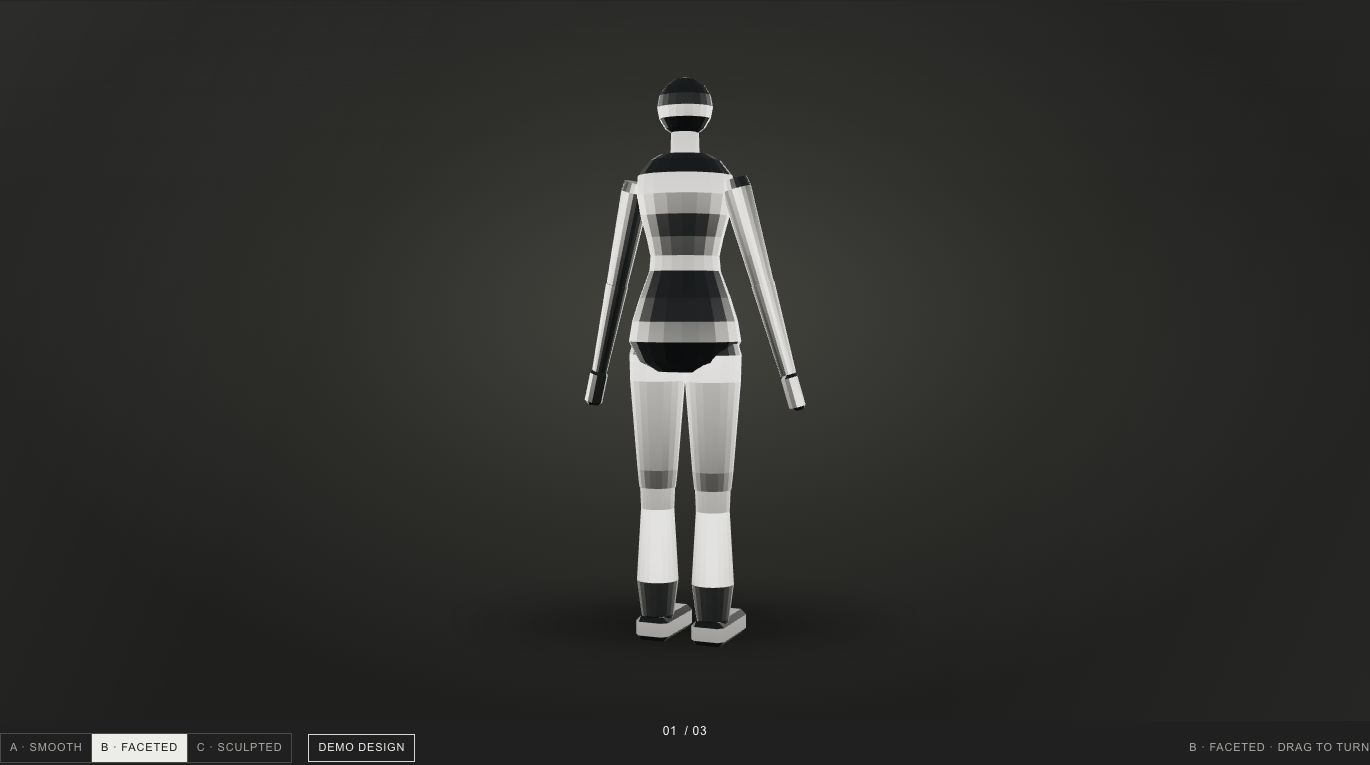
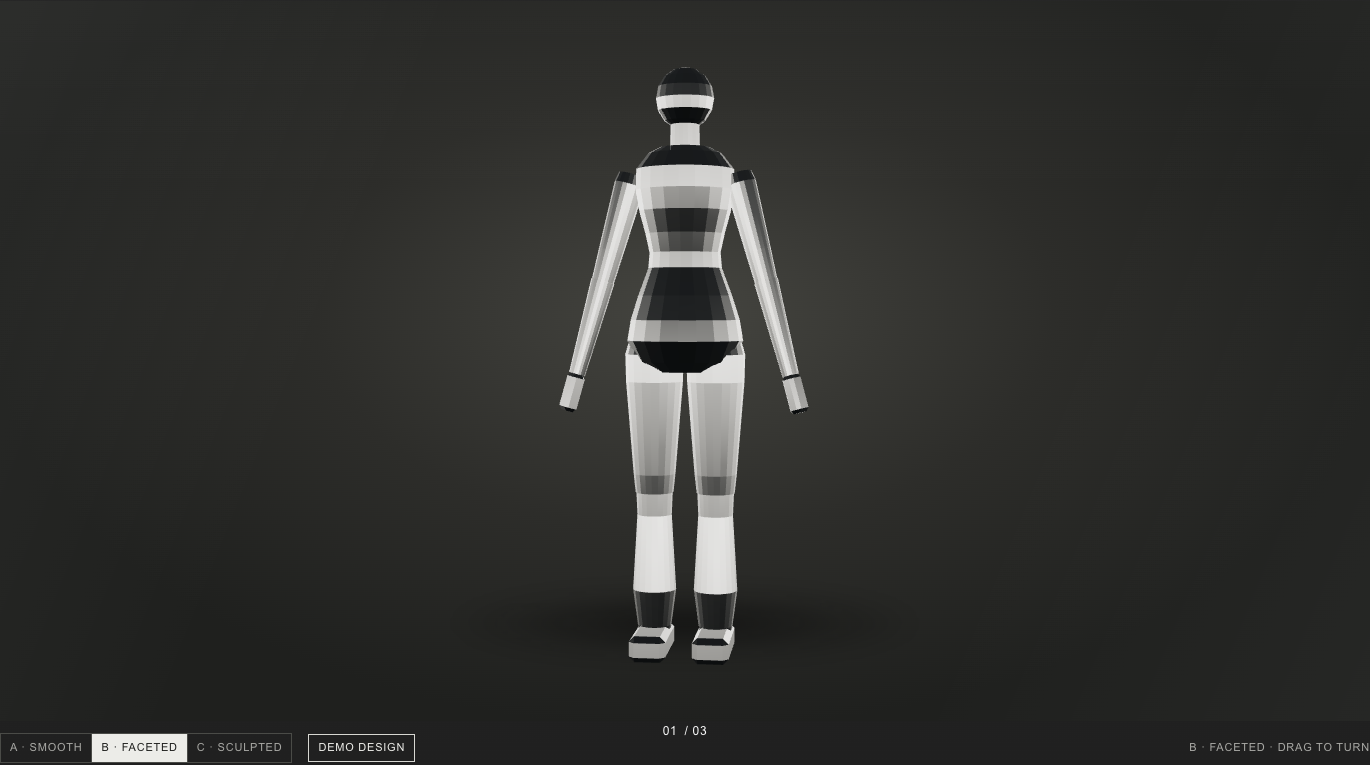
V3.2-M1: screenshot variants front-on and note A/B-C orientation
- Preview-Suite fotografiert A/B/C unter Reduced Motion (Frontansicht) und
  schaltet erst danach die volle Bewegung frei; Flick-Geste entscheidbarer
- REPORT: Beobachtung zur -Z/+Z-Orientierung von A/B vs. C

Changed region(s): [[0.3985, 0.0902, 0.6131, 0.8719]]

diff --git a/docs/validation/MANNEQUIN-C/REPORT.md b/docs/validation/MANNEQUIN-C/REPORT.md
@@ -119,6 +119,12 @@ Messwerte: `requests.json`.
 - `.chapter-counter` (`position: fixed`, bottom center, V3.1-Bestand) liegt je
   nach Scrollposition ueber dem unteren Rand des Frames. Globales Element,
   ausserhalb dieses Scopes.
+- **Orientierung A/B vs. C**: A/B sind mit `-Z` nach vorn modelliert (Bestand,
+  siehe `docs/validation/MANNEQUIN-CHROME/variant-a-1440.png`), C mit `+Z`.
+  Beim Wechsel C→A wirkt das wie ein Sprung um 180°. Nicht geaendert: A/B
+  muessen unveraendert bleiben und das Demo-Decal liegt auf der sichtbaren
+  A/B-Seite. Vorschlag fuer V3.2-M1: alle Varianten auf `+Z`-Front drehen und
+  das Decal neu authorieren.
 - `npm run test:mobile` scheitert an `tests/mobile-interactions-browser.mjs:193`
   (`page.waitForURL` nach `goto('/work/tattoos')`). Auf dem Basis-Commit
   `9dd66ce` in einem separaten Worktree reproduziert — vorbestehend, nicht durch
